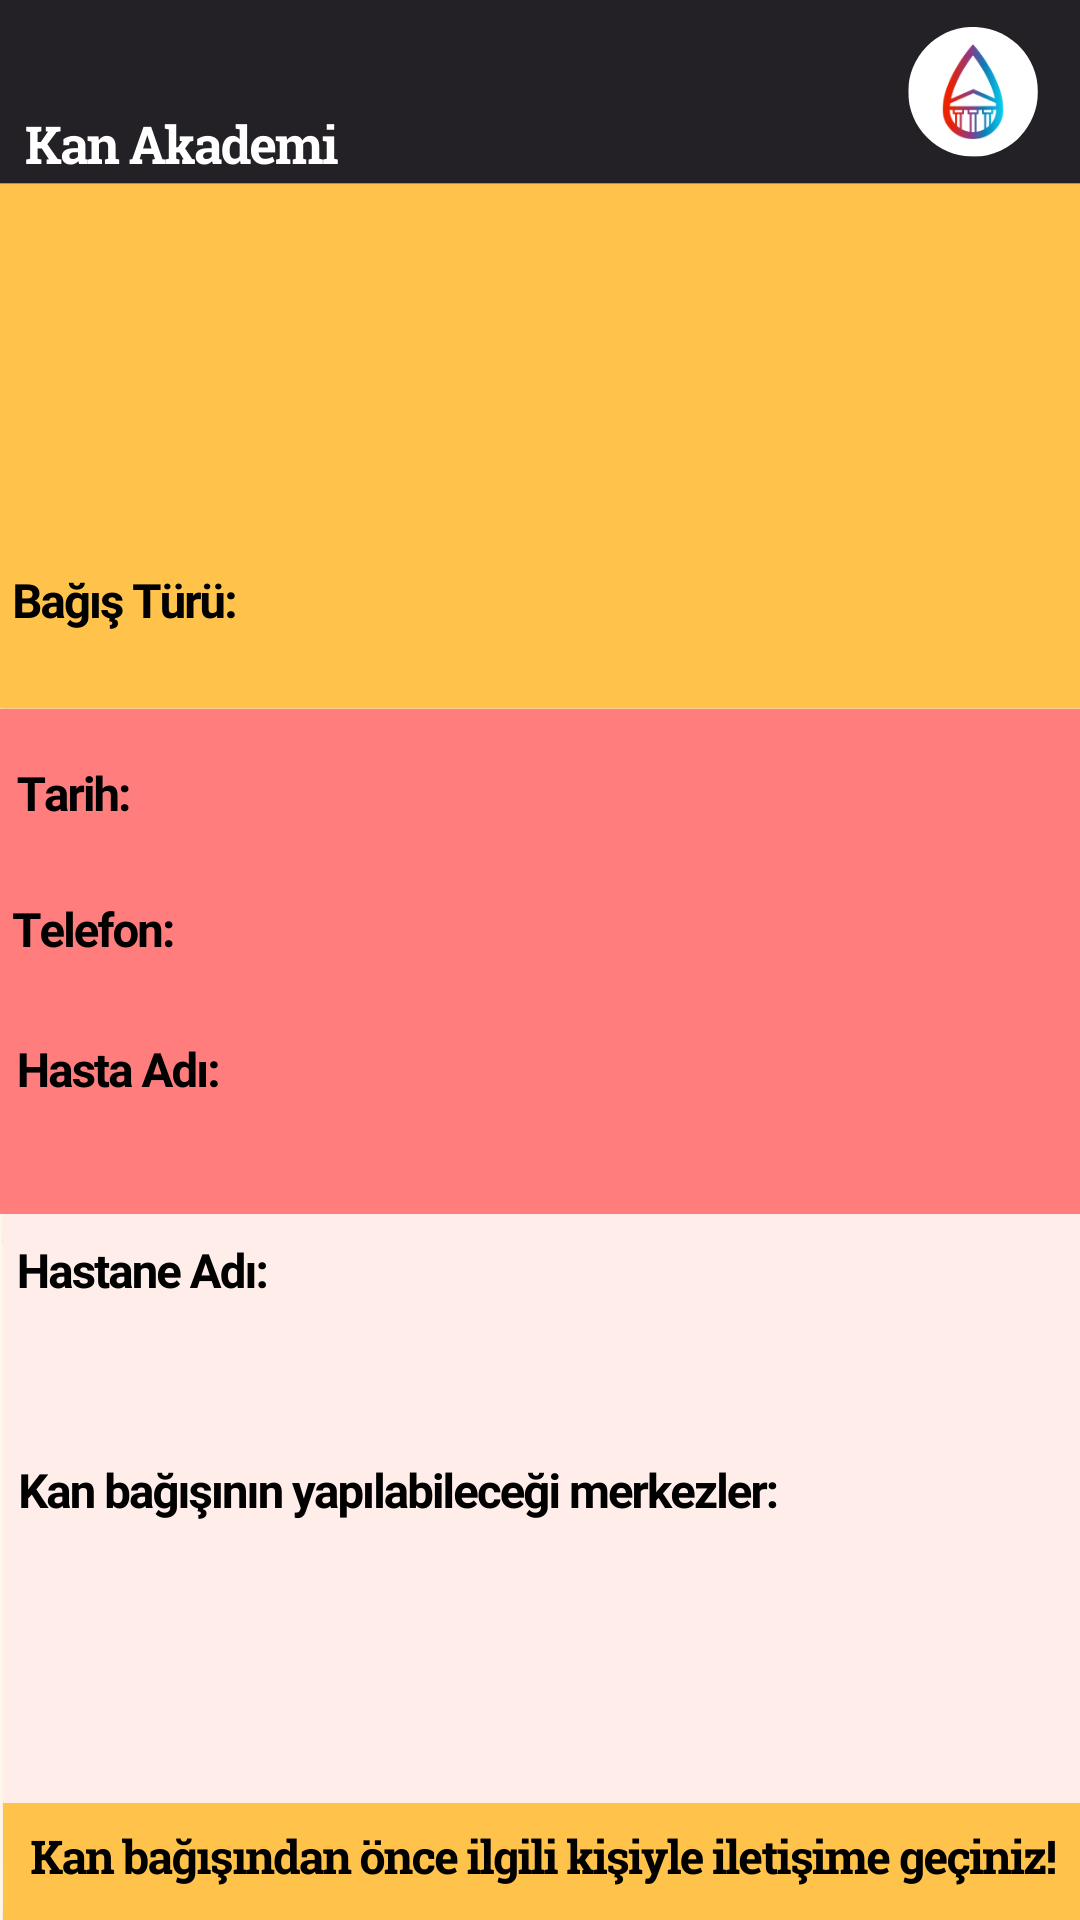
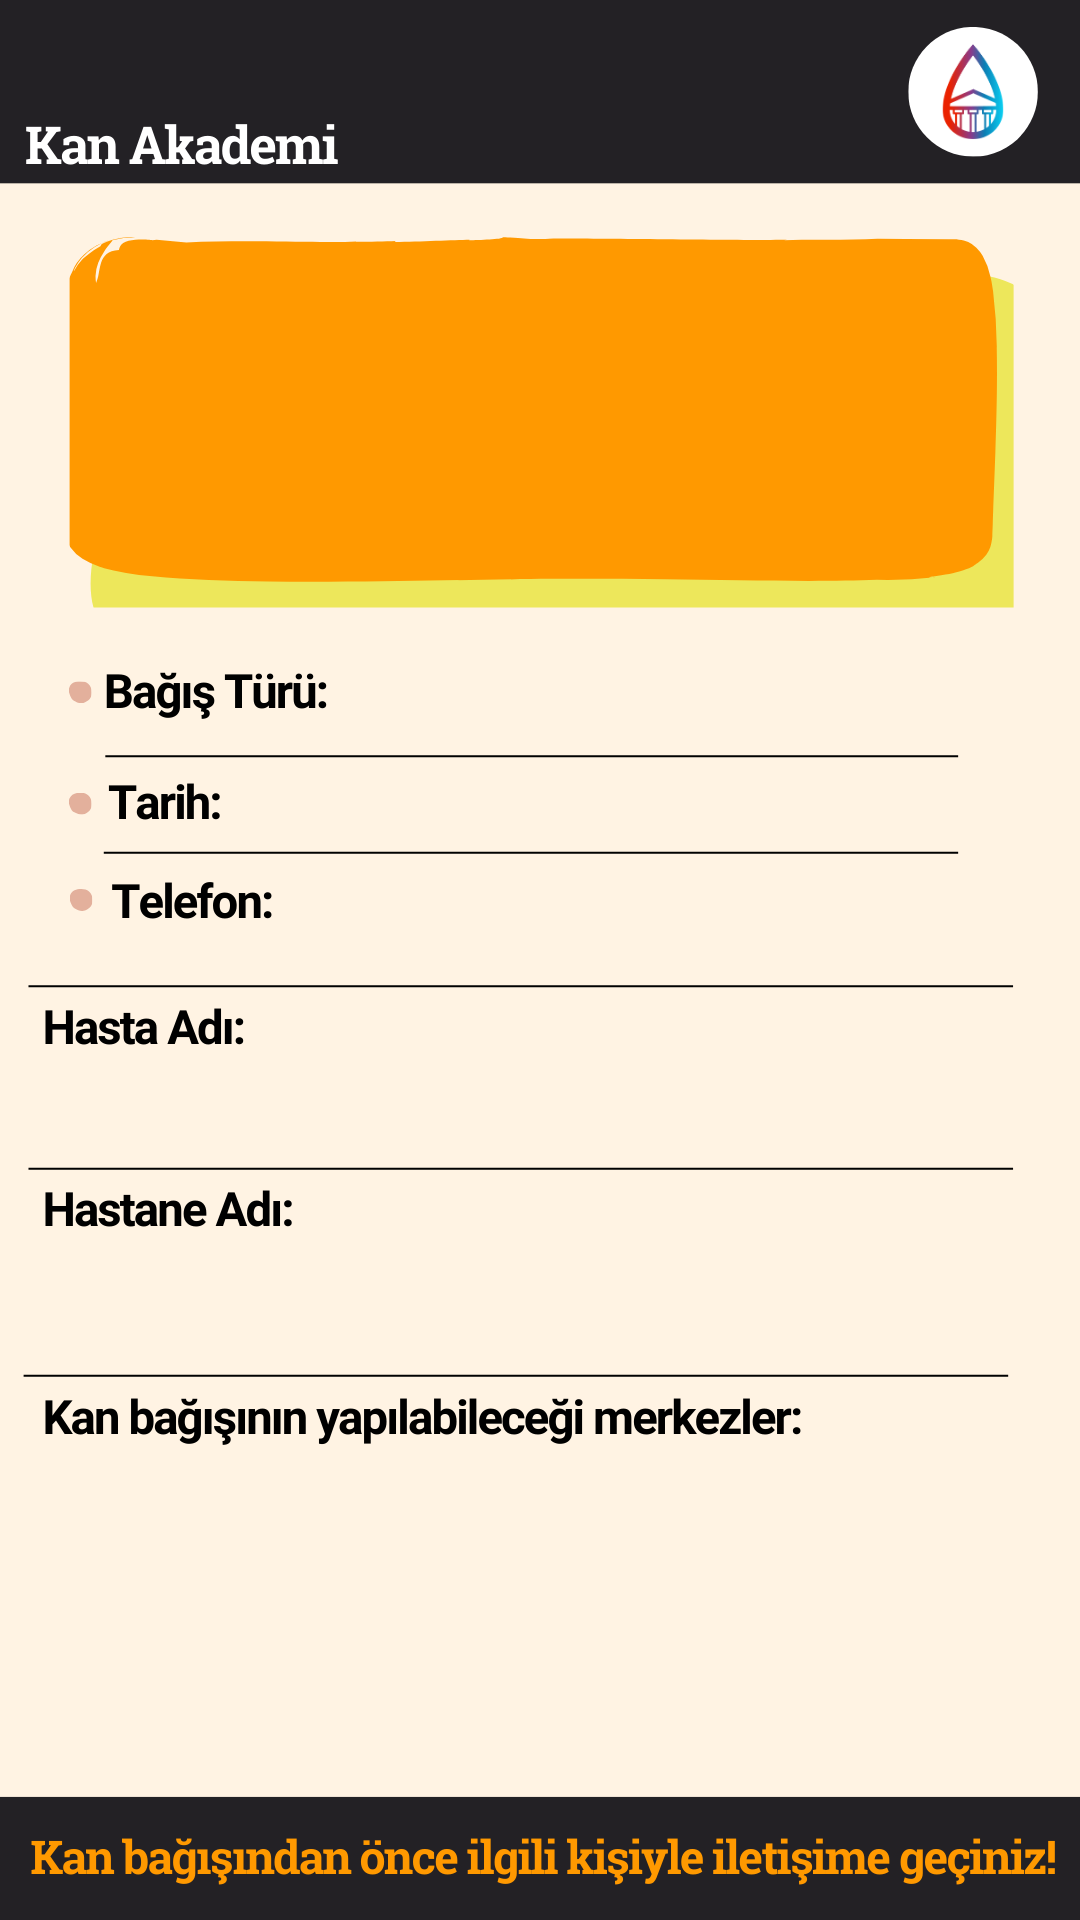
feat: update Template 5 styles and coordinates for improved layout

diff --git a/src/templates/Template5/config.ts b/src/templates/Template5/config.ts
@@ -4,17 +4,17 @@ import AutoAwesomeIcon from '@mui/icons-material/AutoAwesome';
 
 export const config: TemplateConfig = {
   id: "5",
-  selectorColor: "#ffc24a",
+  selectorColor: "#ff9900",
   selectorIcon: AutoAwesomeIcon,
   templatePath: `kan-akademi-ilan-template-5.png?v=${ASSET_VERSION}`,
   styles: {
     bloodGroup: { coord: { top: 83, left: 47 }, font: { size: 78, color: "#000000" } },
-    regardlessBloodGroup: { coord: { top: 65, left: 35 }, font: { size: 45, color: "#000000" } },
-    bloodType: { coord: { top: 187, left: 80 }, font: { size: 17, color: "#000000" } },
-    fullName: { width: 165, coord: { top: 365, left: 5 }, font: { size: 17, color: "#000000" } },
-    phone: { coord: { top: 298, left: 60 }, font: { size: 17, color: "#000000" } },
-    date: { coord: { top: 252, left: 45 }, font: { size: 17, color: "#000000" } },
-    hospital: { coord: { top: 435, left: 5 }, font: { size: 16, color: "#000000" } },
-    location: { coord: { top: 508, left: 5 }, font: { size: 16, color: "#000000" } },
+    regardlessBloodGroup: { coord: { top: 70, left: 35 }, font: { size: 45, color: "#000000" } },
+    bloodType: { coord: { top: 218, left: 112 }, font: { size: 17, color: "#000000" } },
+    fullName: { width: 165, coord: { top: 350, left: 14 }, font: { size: 17, color: "#000000" } },
+    phone: { coord: { top: 289, left: 94 }, font: { size: 17, color: "#000000" } },
+    date: { coord: { top: 255, left: 78 }, font: { size: 17, color: "#000000" } },
+    hospital: { coord: { top: 415, left: 14 }, font: { size: 16, color: "#000000" } },
+    location: { coord: { top: 483, left: 14 }, font: { size: 16, color: "#000000" } },
   },
 };

diff --git a/src/templates/Template5/Template5Component.tsx b/src/templates/Template5/Template5Component.tsx
@@ -43,7 +43,7 @@ export function Template5Component(props: TemplateProps) {
 
     if (donationInfo.bloodGroup.startsWith("AB")) {
         localConfig.styles.bloodGroup.font.size = 75;
-        localConfig.styles.bloodGroup.coord.left = 31;
+        localConfig.styles.bloodGroup.coord.left = 27;
     } else {
         localConfig.styles.bloodGroup.coord.left = originalBloodGroupLeft.current;
         localConfig.styles.bloodGroup.font.size = originalBloodGroupFontSize.current;
@@ -55,7 +55,9 @@ export function Template5Component(props: TemplateProps) {
     const originalBloodTypeFontSize = useRef(localConfig.styles.bloodType.font.size);
 
     if (donationInfo.bloodType.length > 3) {
-        localConfig.styles.bloodType.coord.top = 179;
+        localConfig.styles.bloodType.coord.top = 205;
+        localConfig.styles.bloodType.font.size = 15;
+    } else if (donationInfo.bloodType.length > 2) {
         localConfig.styles.bloodType.font.size = 15;
     } else {
         localConfig.styles.bloodType.coord.top = originalBloodTypeTop.current;
